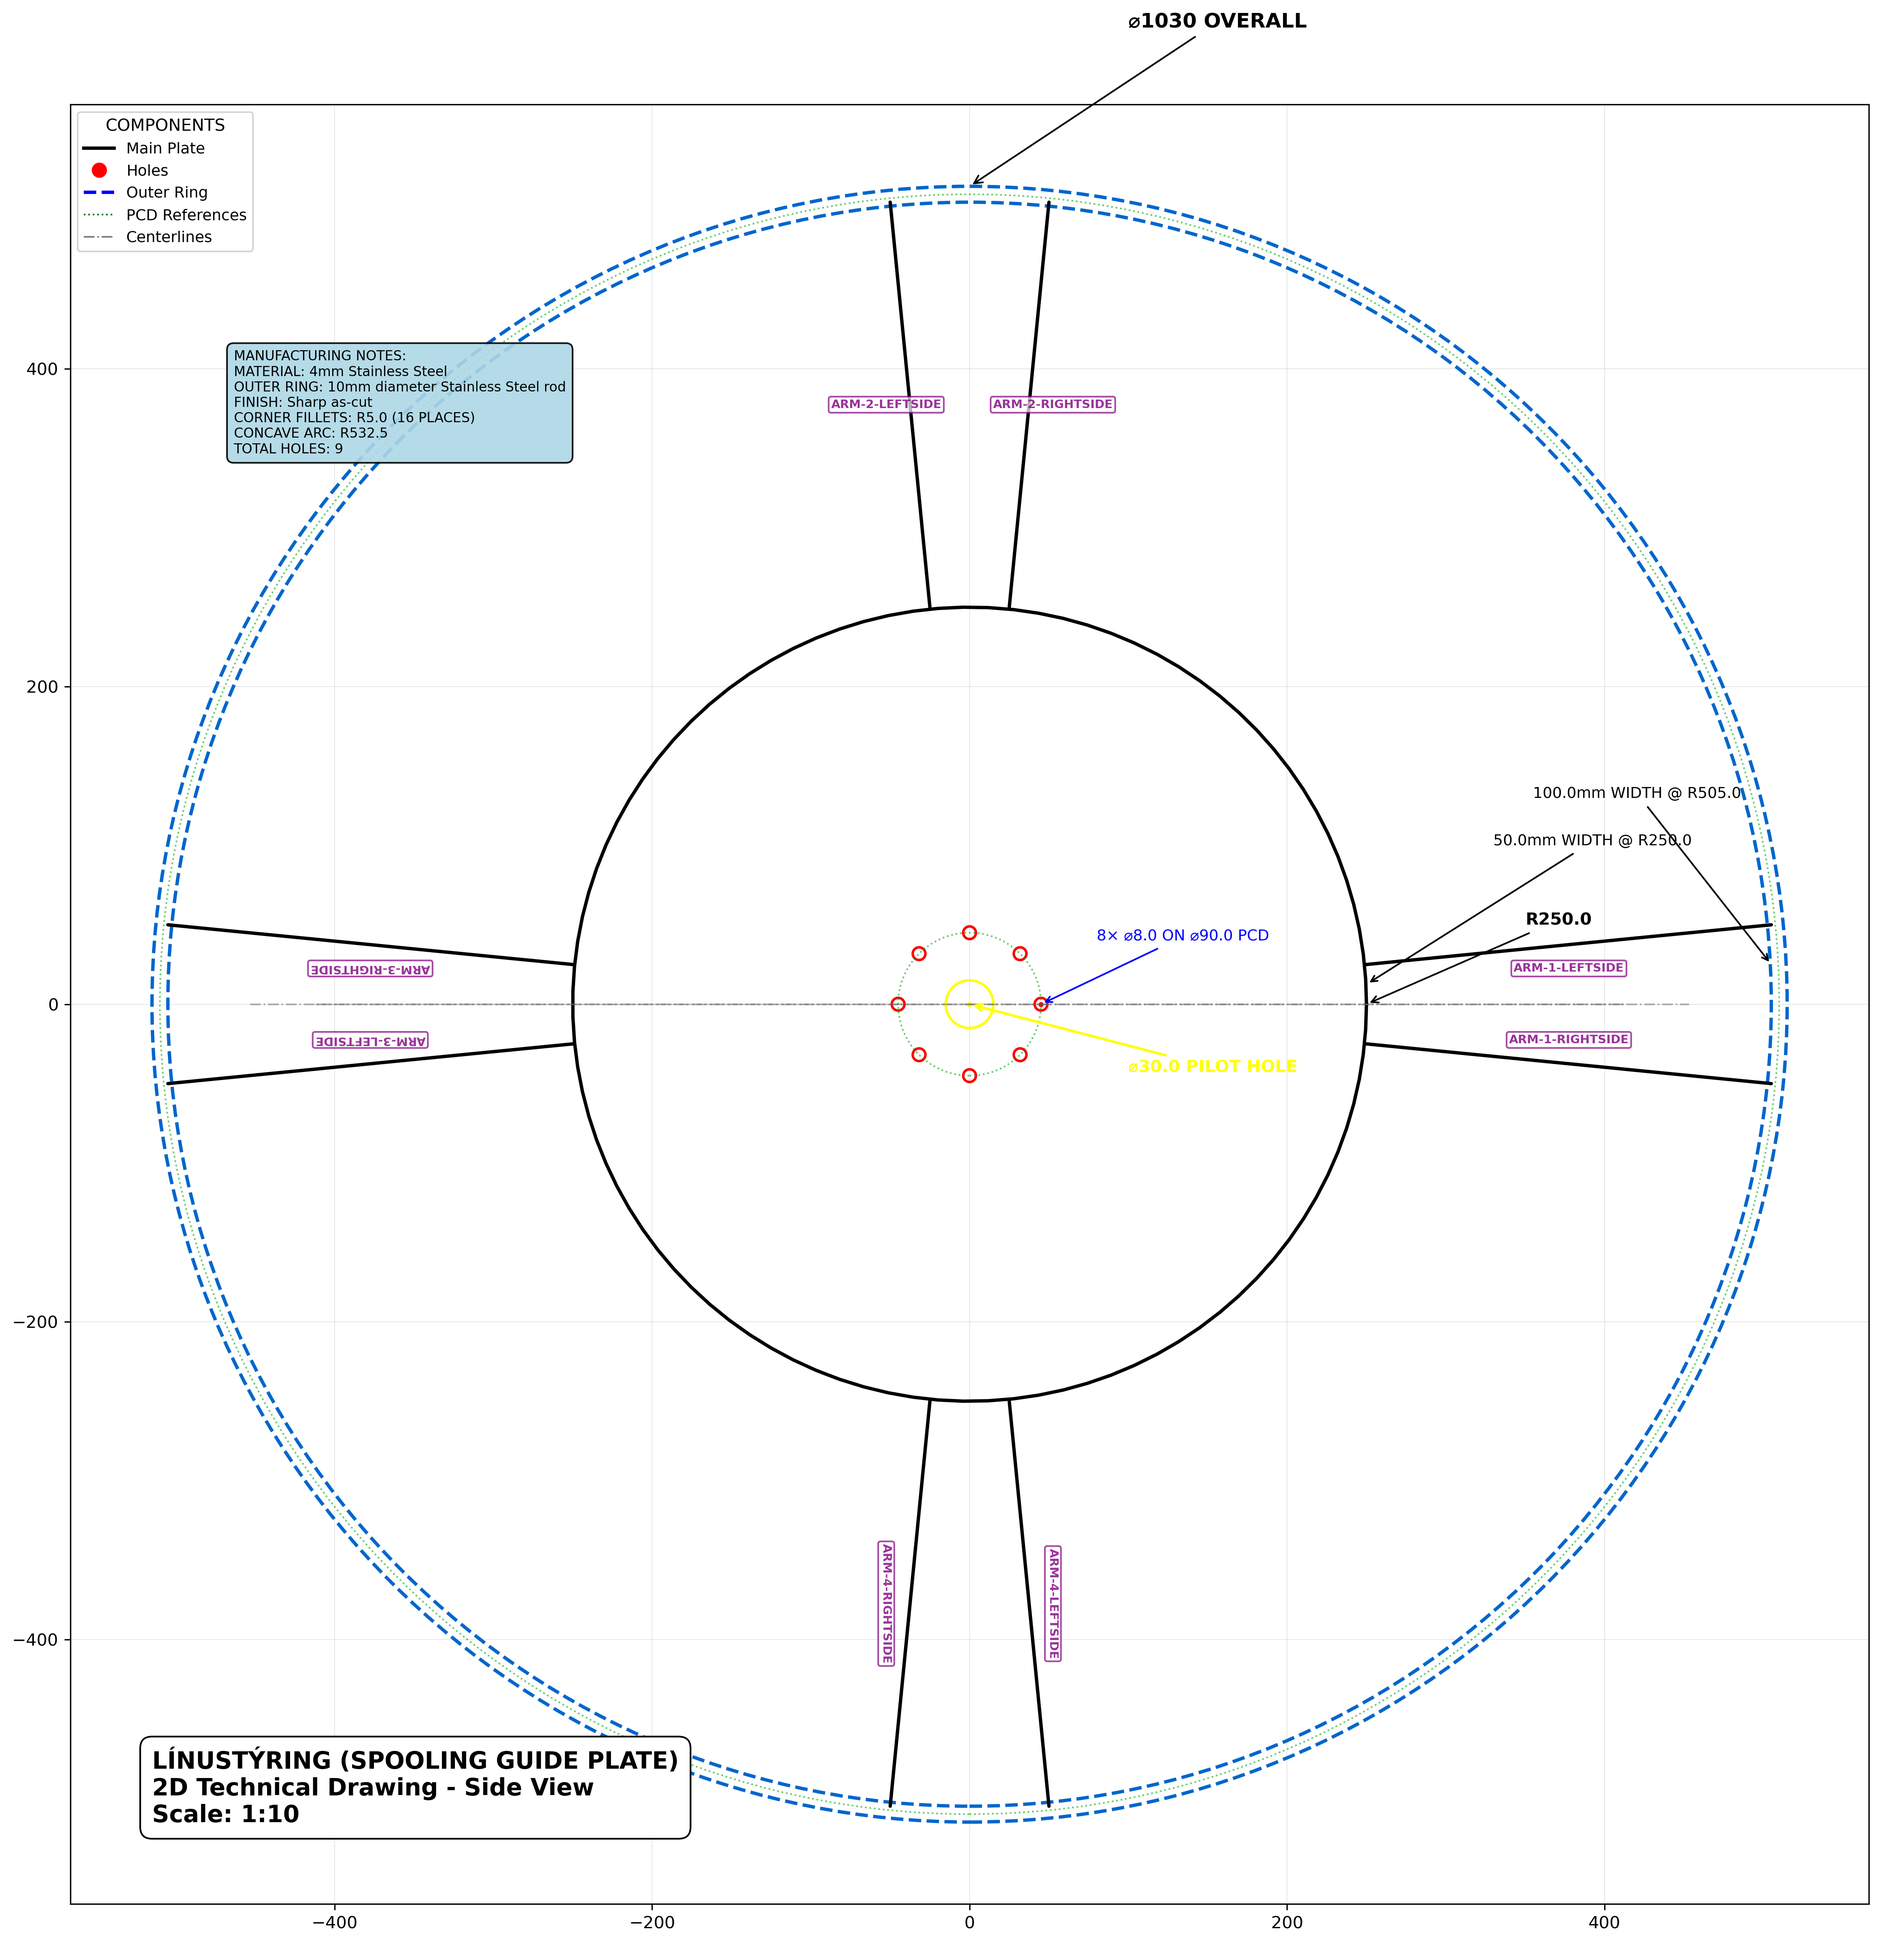
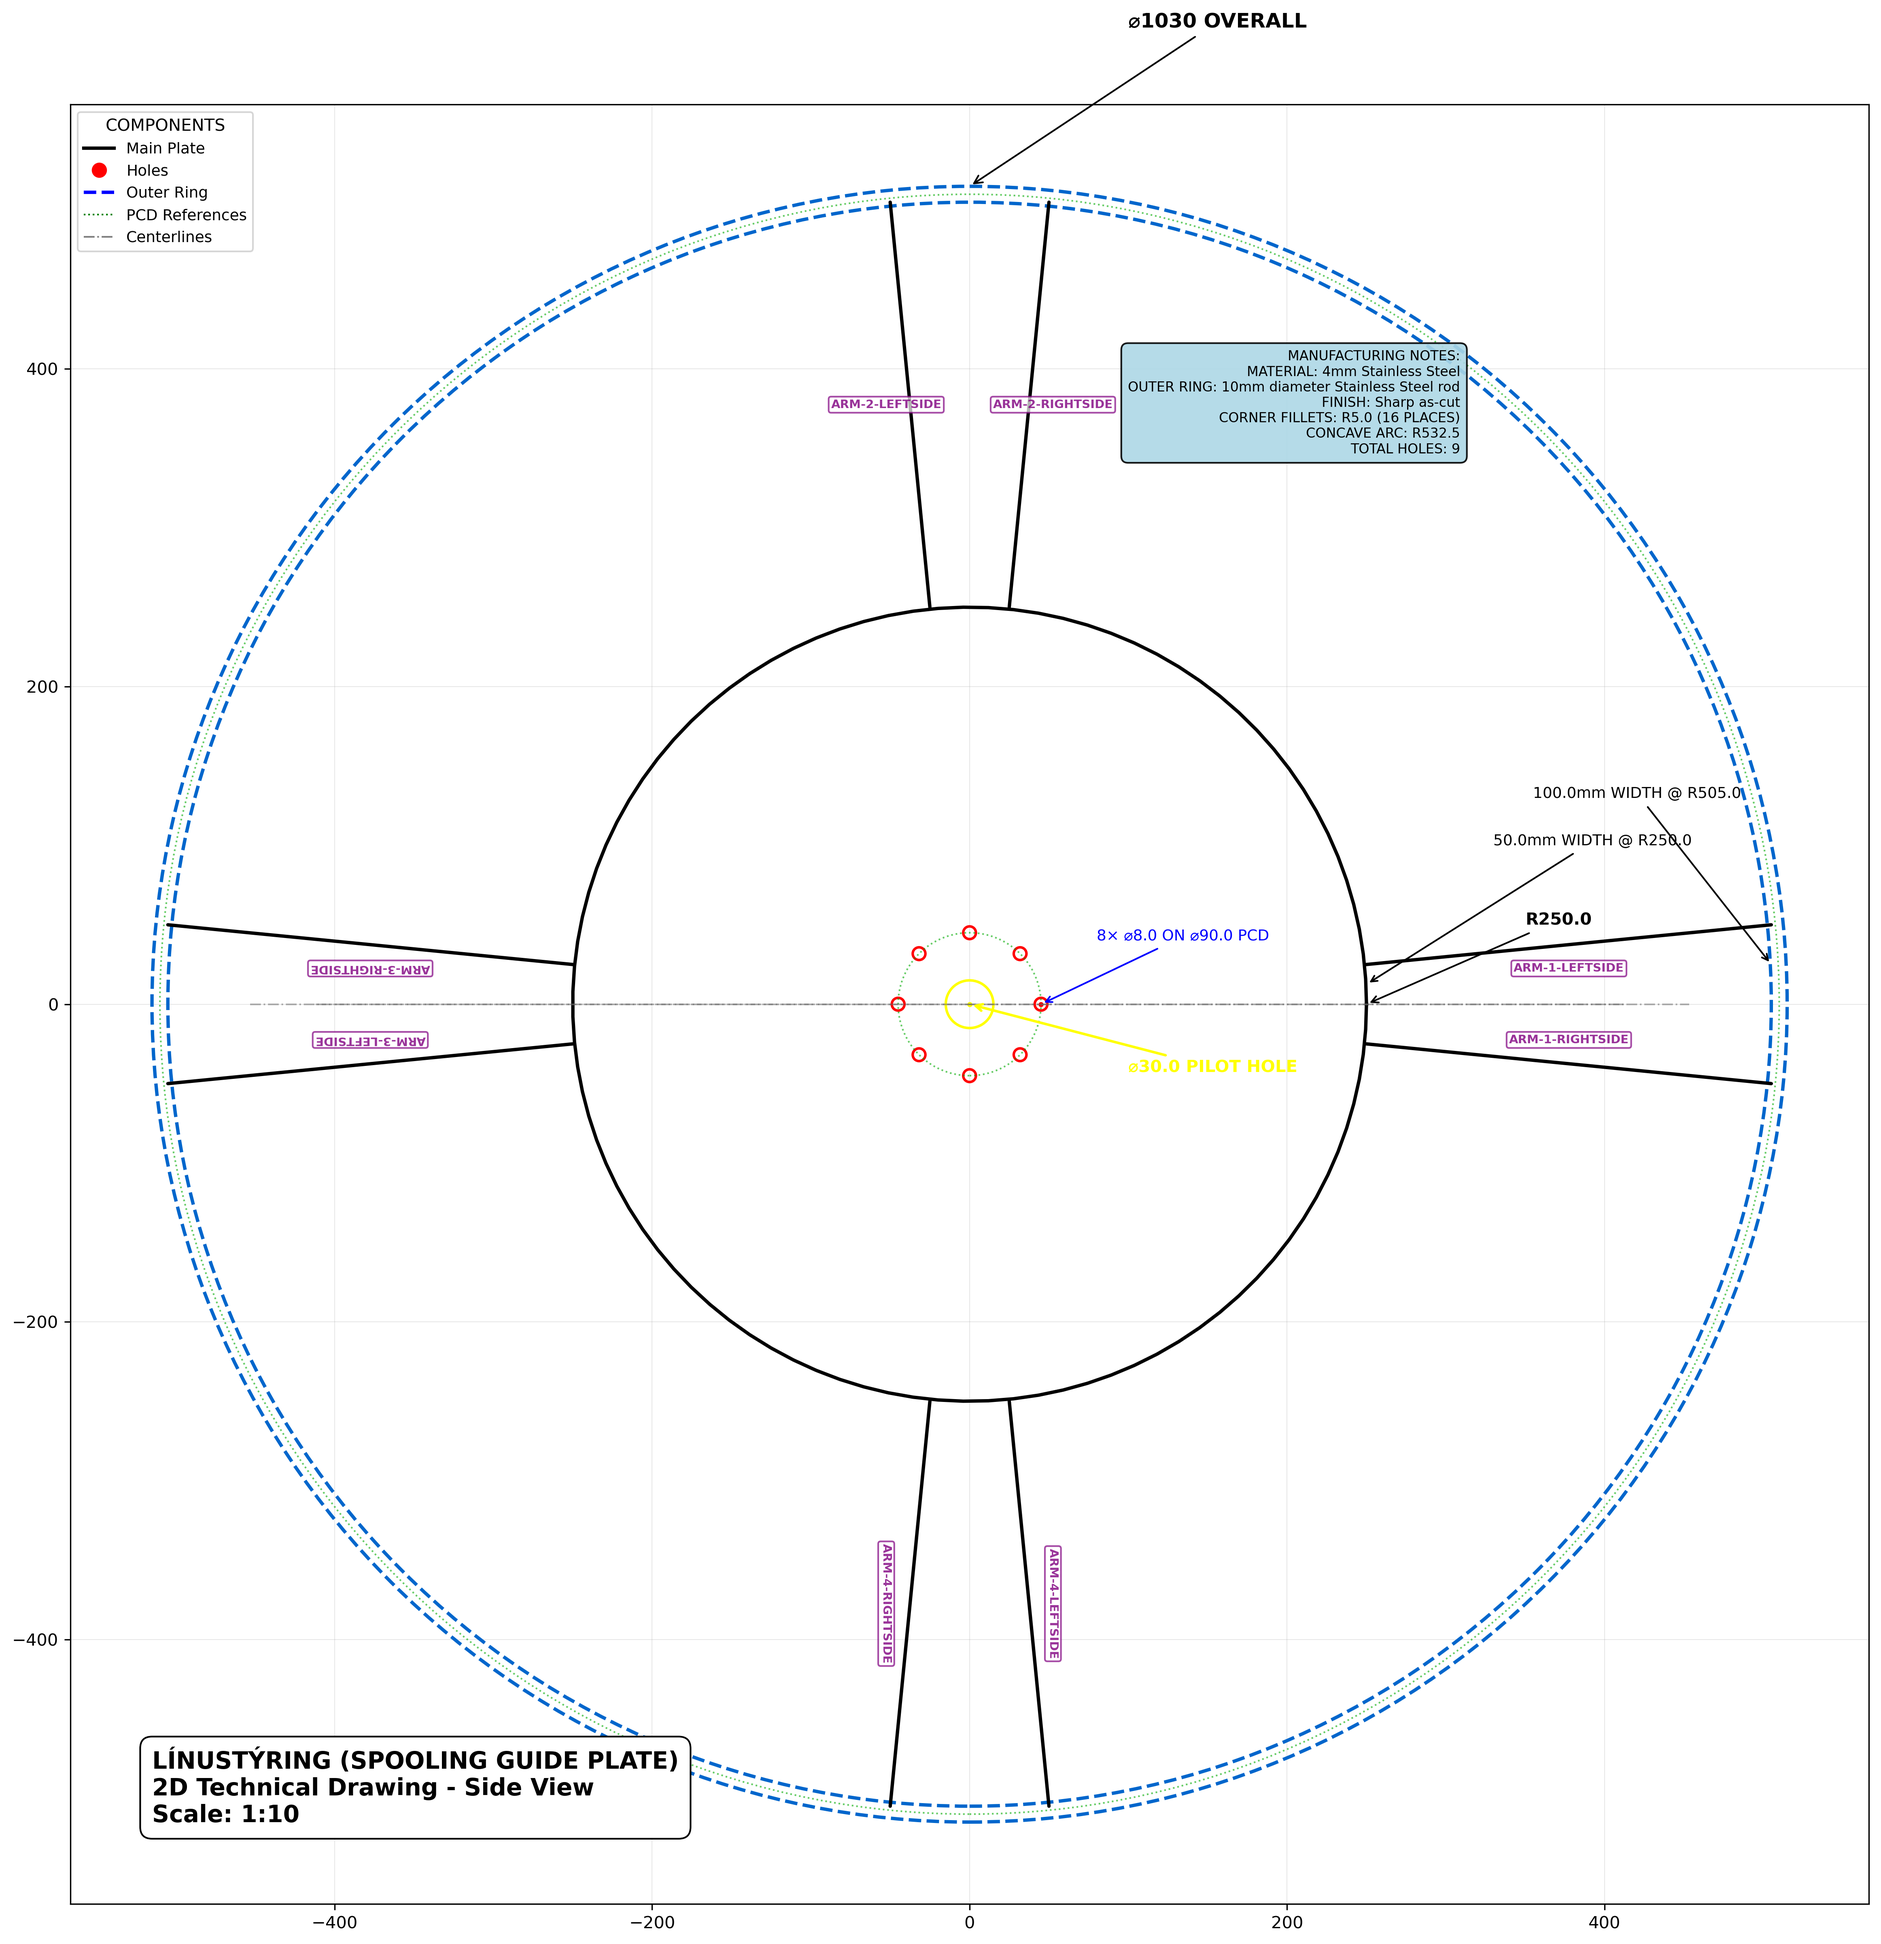
Move manufacturing notes to upper-right corner
- Changed note_x from -0.9 to +0.6 (moved to right side)
- Maintained note_y at +0.8 (kept in upper area)
- Added horizontal alignment right for professional positioning
- Manufacturing notes box now positioned in upper-right quadrant
- Better layout separation from main drawing content
- Improved visual balance with title block in lower-left

Changed region(s): [[0.0936, 0.1562, 0.312, 0.2499], [0.5927, 0.1562, 0.7799, 0.2499]]

diff --git a/src/spooling_guide/annotations.py b/src/spooling_guide/annotations.py
@@ -104,8 +104,8 @@ def add_material_notes(ax):
         ax: Matplotlib axes object
     """
     overall_dims = geom.calculate_overall_dimensions()
-    note_x = -overall_dims['overall_radius'] * 0.9
-    note_y = overall_dims['overall_radius'] * 0.8
+    note_x = overall_dims['overall_radius'] * 0.6   # Positive X for right side
+    note_y = overall_dims['overall_radius'] * 0.8   # Positive Y for upper area
     
     notes = [
         f"MATERIAL: {spec.MAIN_PLATE_MATERIAL}",
@@ -123,7 +123,8 @@ def add_material_notes(ax):
                      facecolor='lightblue', 
                      edgecolor='black',
                      alpha=0.9),
-            verticalalignment='top')
+            verticalalignment='top',
+            horizontalalignment='right')  # Right-align for upper-right positioning
 
 
 def add_title_block(ax):
